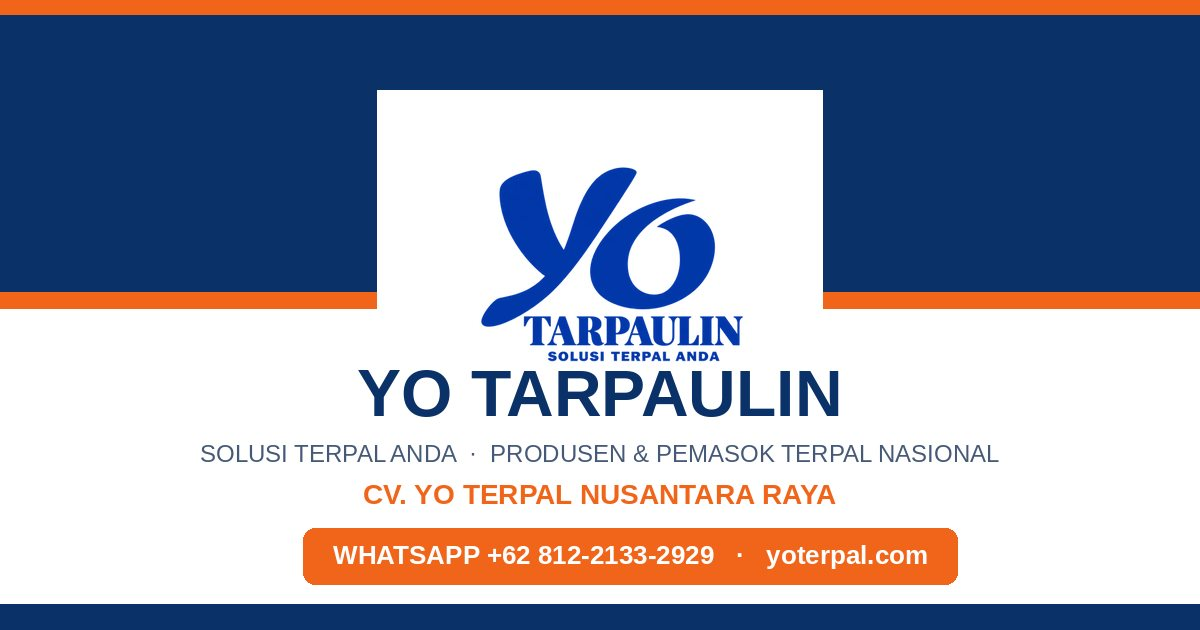
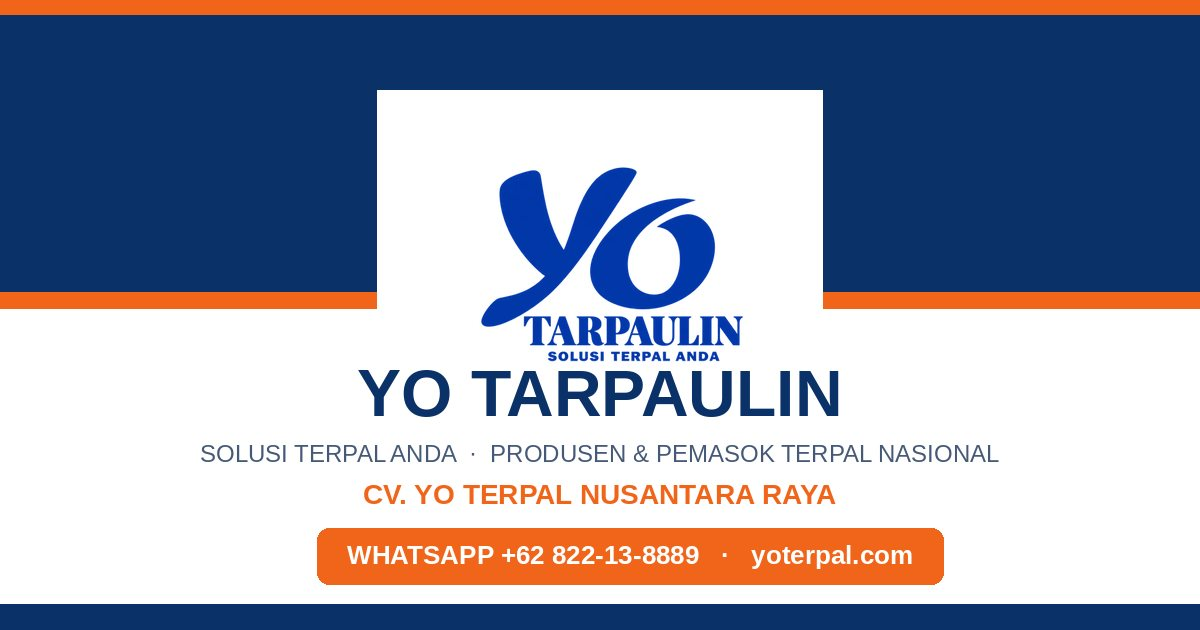
Tukar nomor: utama +62 822-13-8889 (termasuk WA float & form), alternatif +62 812-2133-2929; og-default chip diperbarui; script OG ikut; compro HTML WA1/WA2 ditukar

Changed region(s): [[0.2467, 0.8143, 0.8017, 0.9349]]

diff --git a/compro-yoterpal.html b/compro-yoterpal.html
@@ -186,7 +186,7 @@ permalink: /compro-yoterpal/
     <span><a href="#pg-tentang">Tentang</a> &bull; <a href="#pg-owner">Sambutan Owner</a> &bull; <a href="#pg-keunggulan">Keunggulan</a> &bull; <a href="#pg-terpal">Terpal PE</a> &bull; <a href="#pg-lainnya">PVC/ Roll/ Tas</a> &bull; <a href="#pg-paranet">Paranet</a> &bull; <a href="#pg-aplikasi">Aplikasi</a> &bull; <a href="#pg-pemesanan">Cara Pemesanan</a> &bull; <a href="#pg-merek">Merek</a> &bull; <a href="#pg-kontak"><b>Kontak</b></a></span>
   </div>
   <div class="foot">    <span>yoterpal.com</span>
-    <span>WA <a style="color:#fff" href="https://wa.me/6281221332929">+62 812-2133-2929</a> &bull; WA 2 <a style="color:#fff" href="https://wa.me/62822138889">+62 822-13-8889</a></span>
+    <span>WA <a style="color:#fff" href="https://wa.me/62822138889">+62 822-13-8889</a> &bull; WA 2 <a style="color:#fff" href="https://wa.me/6281221332929">+62 812-2133-2929</a></span>
     <span>CV. Yo Terpal Nusantara Raya</span>
   </div>
 </div>
@@ -459,8 +459,8 @@ permalink: /compro-yoterpal/
   </div>
   <h3 class="sec">HUBUNGI KAMI</h3>
   <div class="ctgrid">
-    <div class="ct"><h4>Sales &amp; Order Utama — WhatsApp 1</h4><div class="big"><a class="pglink" href="https://wa.me/6281221332929">+62 812-2133-2929</a></div><small>Respon cepat 24/7 &bull; <a class="pglink" href="https://wa.me/6281221332929">wa.me/6281221332929</a></small></div>
-    <div class="ct"><h4>Saluran Alternatif — WhatsApp 2</h4><div class="big"><a class="pglink" href="https://wa.me/62822138889">+62 822-13-8889</a></div><small>Respon cepat 24/7 &bull; <a class="pglink" href="https://wa.me/62822138889">wa.me/62822138889</a></small></div>
+    <div class="ct"><h4>Sales &amp; Order Utama — WhatsApp 1</h4><div class="big"><a class="pglink" href="https://wa.me/62822138889">+62 822-13-8889</a></div><small>Respon cepat 24/7 &bull; <a class="pglink" href="https://wa.me/62822138889">wa.me/62822138889</a></small></div>
+    <div class="ct"><h4>Saluran Alternatif — WhatsApp 2</h4><div class="big"><a class="pglink" href="https://wa.me/6281221332929">+62 812-2133-2929</a></div><small>Respon cepat 24/7 &bull; <a class="pglink" href="https://wa.me/6281221332929">wa.me/6281221332929</a></small></div>
     <div class="ct"><h4>Instagram</h4><div class="big"><a class="pglink" href="https://www.instagram.com/pabrik_plastik_termurah">@pabrik_plastik_termurah</a></div><small>Katalog stok &amp; foto produksi harian &bull; <a class="pglink" href="https://www.instagram.com/pabrik_plastik_termurah">instagram.com/pabrik_plastik_termurah</a></small></div>
     <div class="ct"><h4>Threads</h4><div class="big"><a class="pglink" href="https://www.threads.com/@pabrik_plastik_termurah">@pabrik_plastik_termurah</a></div><small>Update stok, promo &amp; info pabrik &bull; <a class="pglink" href="https://www.threads.com/@pabrik_plastik_termurah">threads.com/@pabrik_plastik_termurah</a></small></div>
     <div class="ct"><h4>Email</h4><div class="big" style="font-size:10.5pt;"><a class="pglink" href="mailto:yonusantararaya@gmail.com">yonusantararaya@gmail.com</a></div><small>Penawaran &amp; dokumen formal</small></div>
@@ -469,7 +469,7 @@ permalink: /compro-yoterpal/
   <div class="pay"><img src="assets/images/banner-payment.webp" alt=""></div>
   <div class="rendah">
     <div><b>Butuh terpal untuk proyek Anda?</b><br><span>Konsultasikan sekarang — tim kami siap merespons cepat, 24/7. Kunjungi <a class="pglink" href="https://yoterpal.com/">yoterpal.com</a> untuk katalog &amp; spesifikasi lengkap.</span></div>
-    <div class="yn"><a class="yn" href="https://wa.me/6281221332929">CHAT WHATSAPP</a></div>
+    <div class="yn"><a class="yn" href="https://wa.me/62822138889">CHAT WHATSAPP</a></div>
   </div>
   <div class="pagenote">
     YO TERPAL NUSANTARA RAYA — Solusi Terpal Anda &bull; CV. Yo Terpal Nusantara Raya &bull; yoterpal.com &bull; Company Profile ini dibuat dari konten situs resmi yoterpal.com — katalog, stok, dan informasi terbaru selalu diperbarui online.

diff --git a/_includes/proses.html b/_includes/proses.html
@@ -18,7 +18,7 @@
     </ol>
 
     <figure class="banner-wide reveal">
-      <img src="{{ site.baseurl }}/assets/images/banner-custom.webp" alt="Butuh terpal dengan ukuran custom? Bisa custom ukuran, bahan berkualitas, pengerjaan cepat & rapi — hubungi kami sekarang 0812 2133 2929" loading="lazy" width="1200" height="669">
+      <img src="{{ site.baseurl }}/assets/images/banner-custom.webp" alt="Butuh terpal dengan ukuran custom? Bisa custom ukuran, bahan berkualitas, pengerjaan cepat & rapi — hubungi kami sekarang 0822 13 8889" loading="lazy" width="1200" height="669">
     </figure>
   </div>
 </section>

diff --git a/kontak.html b/kontak.html
@@ -1,7 +1,7 @@
 ---
 layout: default
 title: "Kontak"
-description: "Hubungi CV. Yo Terpal Nusantara Raya (YO TERPAL NUSANTARA RAYA) via WhatsApp/telepon +62 812-2133-2929 atau email yonusantararaya@gmail.com. Alamat: Amesta Living, Gunung Anyar Tambak, Kota Surabaya."
+description: "Hubungi CV. Yo Terpal Nusantara Raya (YO TERPAL NUSANTARA RAYA) via WhatsApp/telepon +62 822-13-8889 atau email yonusantararaya@gmail.com. Alamat: Amesta Living, Gunung Anyar Tambak, Kota Surabaya."
 permalink: /kontak/
 image: /assets/images/og/og-default.jpg
 ---

diff --git a/assets/js/main.js b/assets/js/main.js
@@ -77,7 +77,7 @@
         "Lokasi Kirim: " + (fd.get("lokasi") || "-"),
         "Detail: " + (fd.get("pesan") || "-")
       ];
-      var url = "https://wa.me/6281221332929?text=" + encodeURIComponent(lines.join("\n"));
+      var url = "https://wa.me/62822138889?text=" + encodeURIComponent(lines.join("\n"));
       window.open(url, "_blank", "noopener");
     });
   }

diff --git a/make_og_variants.py b/make_og_variants.py
@@ -46,7 +46,7 @@ d.rectangle([tx, 268, tx + min(w2, W - tx - 40), 274], fill=ORANGE)
 d.text((tx, 296), "CV. YO TERPAL NUSANTARA RAYA", font=font(30), fill=NAVY2)
 d.text((tx, 344), "Produsen & Pemasok Terpal Nasional", font=font(25, False), fill=(70, 90, 120))
 d.text((tx, 380), "Terpal PE & PVC · Paranet", font=font(23, False), fill=(70, 90, 120))
-chip(d, tx, 432, "WHATSAPP +62 812-2133-2929", font(27))
+chip(d, tx, 432, "WHATSAPP +62 822-13-8889", font(27))
 d.text((tx, 546), "yoterpal.com", font=font(26, False), fill=(120, 140, 165))
 im.save(f"{OUTDIR}/og-default-v1.jpg", "JPEG", quality=84, optimize=True, progressive=True)
 
@@ -69,7 +69,7 @@ d.text((tx, 202), "SOLUSI TERPAL ANDA", font=font(32), fill=ORANGE)
 d.text((tx, 296), "CV. YO TERPAL NUSANTARA RAYA", font=font(30), fill=GOLD)
 d.text((tx, 356), "Produsen & Pemasok Terpal Nasional", font=font(25, False), fill=(214, 226, 244))
 d.text((tx, 392), "Terpal PE & PVC · Paranet", font=font(23, False), fill=(214, 226, 244))
-chip(d, tx, 448, "WHATSAPP +62 812-2133-2929", font(27), fill=ORANGE)
+chip(d, tx, 448, "WHATSAPP +62 822-13-8889", font(27), fill=ORANGE)
 d.text((tx, 546), "yoterpal.com", font=font(26, False), fill=(178, 196, 222))
 im.save(f"{OUTDIR}/og-default-v2.jpg", "JPEG", quality=84, optimize=True, progressive=True)
 
@@ -98,7 +98,7 @@ center_text(d, 356, "YO TARPAULIN", f_v3t, NAVY)
 center_text(d, 440, "SOLUSI TERPAL ANDA  ·  PRODUSEN & PEMASOK TERPAL NASIONAL", f_v3s, (70, 90, 120))
 center_text(d, 478, "CV. YO TERPAL NUSANTARA RAYA", f_v3c, ORANGE)
 f_hl = font(26)
-t5 = "WHATSAPP +62 812-2133-2929   ·   yoterpal.com"
+t5 = "WHATSAPP +62 822-13-8889   ·   yoterpal.com"
 w5 = int(d.textlength(t5, font=f_hl))
 chip(d, (W - w5) // 2, 528, t5, f_hl, hgt=56, pad=30)
 im.save(f"{OUTDIR}/og-default-v3.jpg", "JPEG", quality=84, optimize=True, progressive=True)

diff --git a/make_og.py b/make_og.py
@@ -62,7 +62,7 @@ def brand_card(dst):
     d.text((tx, 190), "YO TARPAULIN", font=font(64), fill=(255, 255, 255))
     d.text((tx, 290), "Solusi Terpal Anda", font=font(40, False), fill=(255, 214, 0))
     d.text((tx, 400), "Produsen & Pemasok Terpal Nasional", font=font(28, False), fill=(214, 228, 252))
-    d.text((tx, 450), "Hotline: +62 812-2133-2929   ·   yoterpal.com", font=font(28, False), fill=(214, 228, 252))
+    d.text((tx, 450), "Hotline: +62 822-13-8889   ·   yoterpal.com", font=font(28, False), fill=(214, 228, 252))
     im.save(dst, "JPEG", quality=Q, optimize=True, progressive=True)
     print(dst, os.path.getsize(dst))
 

diff --git a/make_og_default.py b/make_og_default.py
@@ -55,7 +55,7 @@ t4a = "Terpal PE & PVC · Paranet"
 d.text((tx, 372), t4a, font=f_sub1, fill=(70, 90, 120))
 
 # chip hotline oranye — lebar mengikuti teks, dipastikan muat
-t5 = "WHATSAPP +62 812-2133-2929"
+t5 = "WHATSAPP +62 822-13-8889"
 w5 = d.textlength(t5, font=f_hotline)
 cw = int(w5) + 56
 ch_top = 452
